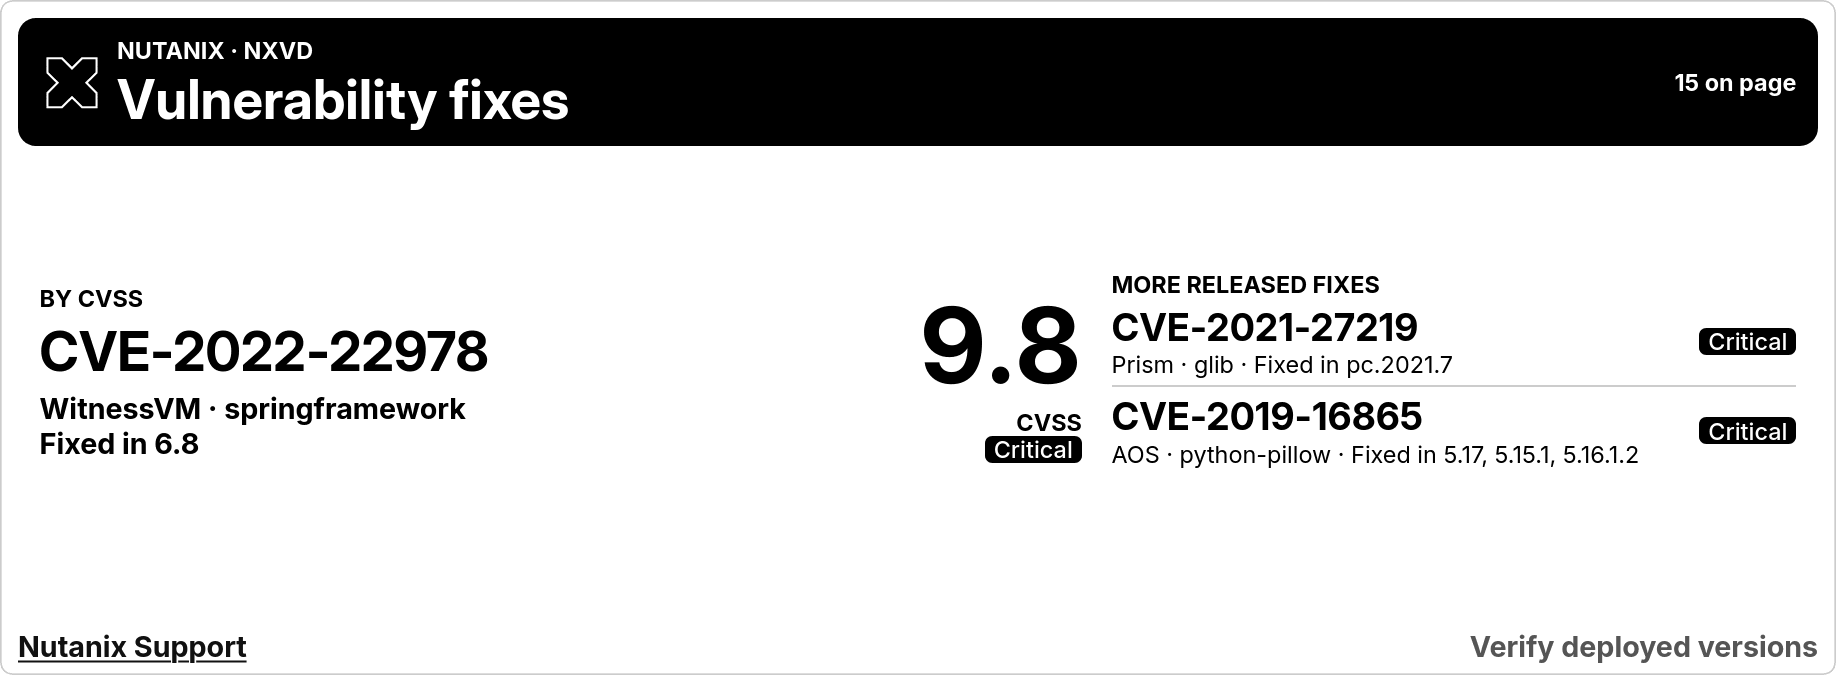
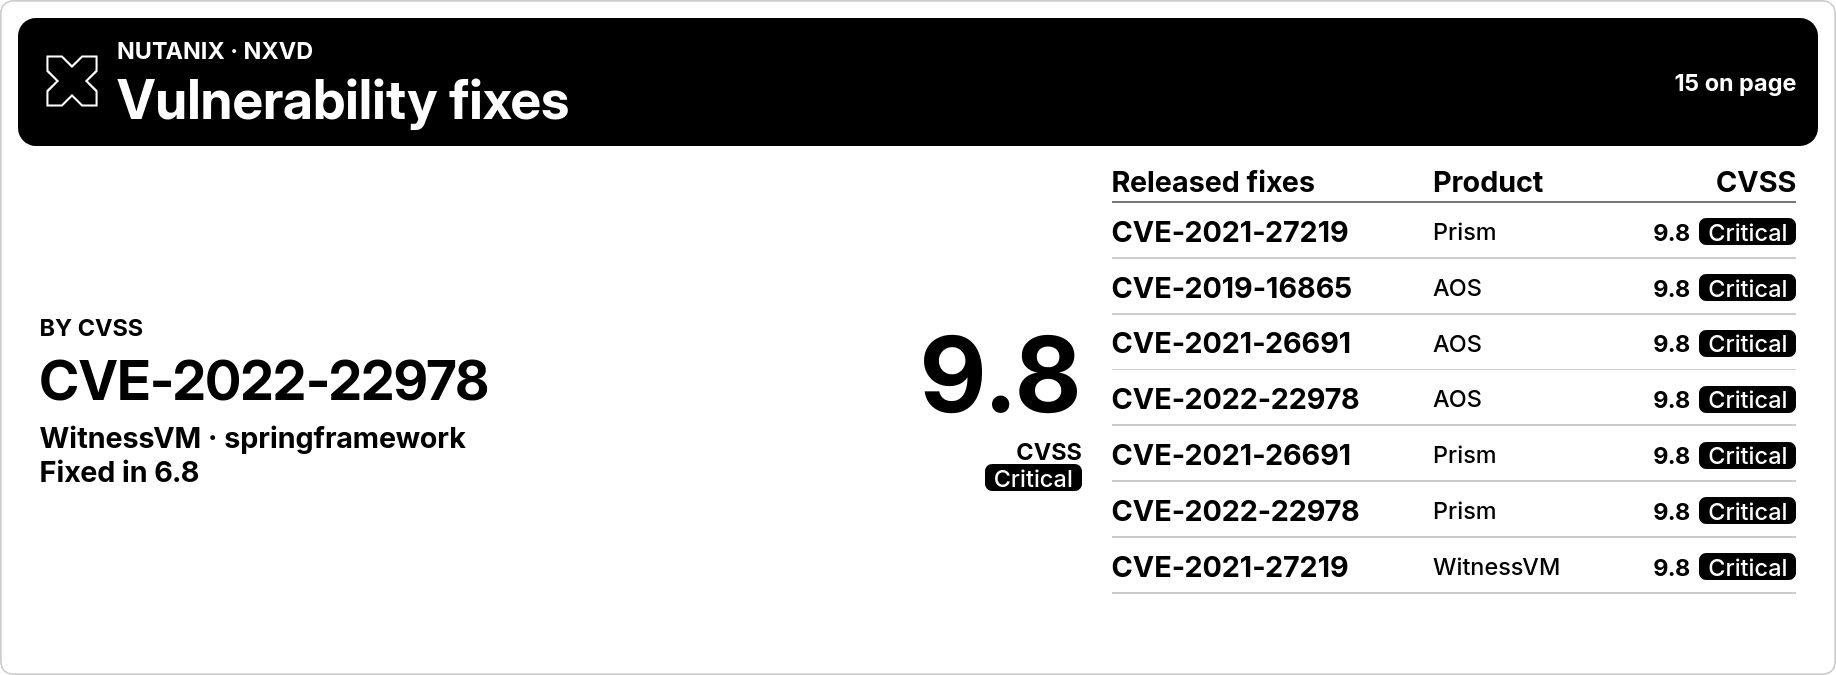
feat: adapt nutanix tables to og and trmnl x

diff --git a/TRMNL/tests/layout_spec.rb b/TRMNL/tests/layout_spec.rb
@@ -5,17 +5,17 @@ RSpec.describe 'Nutanix Security layouts' do
   advisories_url = 'https://portal.nutanix.com/api/v1/pages/securityAdvisories'
   nxvd_url = 'https://portal.nutanix.com/api/v1/vulnerabilities'
 
-  advisories = (1..6).map do |n|
+  advisories = (1..20).map do |n|
     {
       advisoryNumber: format('%04d', n), criticality: n > 3 ? 'Critical' : 'High',
-      date: "Nov #{14 + n}, 2026",
+      date: "Nov #{n}, 2026",
       affectedVersions: 'Nutanix AOS, Prism Central, and AHV on the affected software releases',
-      summary: "Investigation and BreakFix Guidance for CVE-2099-#{1000 + n} in a component with a long name",
+      summary: "Investigation and BreakFix Guidance for CVE-2099-#{1000 + n} in a component with a very long name affecting several product versions",
       href: "https://download.nutanix.com/alerts/Security_Advisory_#{format('%04d', n)}.pdf"
     }
   end
 
-  released = (1..6).map do |n|
+  released = (1..20).map do |n|
     {
       productName: 'AOS', status: 'Released', severity: n < 3 ? 'Critical' : 'High',
       cvss: n < 3 ? 9.8 : 8.8, cveList: ["CVE-2099-#{1000 + n}", "CVE-2099-#{2000 + n}"],
@@ -24,9 +24,9 @@ RSpec.describe 'Nutanix Security layouts' do
   end
 
   cases = {
-    'advisories' => ['advisories', { "GET #{advisories_url}" => { json: { content: { body: advisories.rotate(2) } } } }, 'CVE-2099-1006', 6],
+    'advisories' => ['advisories', { "GET #{advisories_url}" => { json: { content: { body: advisories.rotate(2) } } } }, 'CVE-2099-1020', 20],
     'advisories-empty' => ['advisories', { "GET #{advisories_url}" => { json: { content: { body: [] } } } }, 'No advisories returned', 0],
-    'nxvd' => ['nxvd', { "POST #{nxvd_url}" => { json: { vulnerabilities: released, totalCount: 200 } } }, 'CVE-2099-1001', 6],
+    'nxvd' => ['nxvd', { "POST #{nxvd_url}" => { json: { vulnerabilities: released, totalCount: 200 } } }, 'CVE-2099-1001', 20],
     'nxvd-single' => ['nxvd', { "POST #{nxvd_url}" => { json: { vulnerabilities: released.take(1) } } }, 'CVE-2099-1001', 1],
     'nxvd-empty' => ['nxvd', { "POST #{nxvd_url}" => { json: { vulnerabilities: [] } } }, 'No released fixes on this page', 0],
     'nxvd-error' => ['nxvd', { "POST #{nxvd_url}" => { status: 503 } }, 'HTTP 503', 0]
@@ -37,21 +37,20 @@ RSpec.describe 'Nutanix Security layouts' do
     'og-portrait' => { model: 'og_plus', width: 480, height: 800, bit_depth: 2, screen_classes: 'screen screen--ogv2 screen--md screen--2bit screen--portrait' },
     'x-portrait' => { model: 'v2', width: 1404, height: 1872, bit_depth: 4, screen_classes: 'screen screen--v2 screen--lg screen--4bit screen--portrait' }
   }
-  row_limits = { 'full' => 4, 'half_horizontal' => 2, 'half_vertical' => 4, 'quadrant' => 0 }
+  views = %w[full half_horizontal half_vertical quadrant]
 
   cases.each do |scenario, (mode, mocks, label, count)|
     devices.each do |device_name, device|
-      row_limits.each do |view, limit|
+      views.each do |view|
         it "renders #{scenario} on #{device_name} #{view}" do
           fields = { table_type: mode, nxvd_product: 'aos' }
           screen = trmnl.render(view: view, device: device, custom_fields: fields, mocks: mocks)
-          narrow = %w[half_vertical quadrant].include?(view)
-
           expect(screen).to have_no_transform_error
           expect(screen).to have_text(label)
           expect(screen).to have_no_text('ALL CLEAR')
           expect(screen.all('[data-ns-lead]').size).to eq(count.positive? ? 1 : 0)
-          expect(screen.all('[data-ns-row]').size).to eq([limit, [count - 1, 0].max].min)
+          expect(screen).to have_no_css('.title_bar')
+          expect(screen).to have_no_css('.layout a')
           expect(screen.result.requests.size).to eq(1)
           expect(screen).to have_css('[data-ns-lead] [data-ns-subject]', text: label) if count.positive?
 
@@ -60,10 +59,9 @@ RSpec.describe 'Nutanix Security layouts' do
             expect(screen.find('[data-ns-score]').text).to eq('9.8')
             expect(screen).to have_text('Fixed in')
           elsif count.positive?
-            expect(screen).to have_text("SA #0006")
+            expect(screen).to have_text("SA #0020")
             expect(screen).to have_text('Nov 20, 2026')
             expect(screen).to have_no_text('Investigation and BreakFix Guidance for')
-            expect(screen).to have_text(narrow ? '1 on Nov 20' : '1 published Nov 20')
           end
 
           request = screen.result.requests.first
@@ -74,19 +72,47 @@ RSpec.describe 'Nutanix Security layouts' do
             )
           end
 
-          footer = screen.box('[data-ns-footer]')
           box = screen.box('.view')
-          width_overflow = screen.evaluate(<<~JS)
-            Math.max(...Array.from(document.querySelectorAll('[data-ns-mast], [data-ns-footer] .instance'),
-              element => element.scrollWidth - element.clientWidth))
+          geometry = screen.evaluate(<<~JS)
+            (() => {
+              const frame = document.querySelector('.layout').getBoundingClientRect();
+              const mast = document.querySelector('[data-ns-mast]');
+              const lead = document.querySelector('[data-ns-lead]')?.getBoundingClientRect();
+              const table = document.querySelector('table');
+              const rows = [...document.querySelectorAll('[data-ns-row]')].filter(row => row.getClientRects().length);
+              const boxes = [...rows, ...document.querySelectorAll('thead, [data-ns-lead]')]
+                .filter(element => element.getClientRects().length)
+                .map(element => element.getBoundingClientRect());
+              const cellOverflow = rows.some(row => [...row.querySelectorAll('[data-clamp]')].some(element => {
+                if (!element.getClientRects().length) return false;
+                const text = document.createRange();
+                text.selectNodeContents(element);
+                return text.getBoundingClientRect().right > element.closest('td').getBoundingClientRect().right + 1;
+              }));
+              return {
+                rows: rows.length,
+                cellOverflow,
+                widthOverflow: mast.scrollWidth - mast.clientWidth,
+                clipped: boxes.some(box => box.top < frame.top - 1 || box.bottom > frame.bottom + 1 ||
+                                          box.left < frame.left - 1 || box.right > frame.right + 1),
+                beside: Boolean(table && lead && table.getBoundingClientRect().left >= lead.right - 1),
+                columns: table ? [...table.querySelectorAll('th')].filter(cell => cell.getClientRects().length).length : 0
+              };
+            })()
           JS
-          expect(width_overflow).to be <= 1
-          bottom = footer.top + footer.height
-          expect(bottom).to be <= box.top + box.height + 1
-          if count.positive?
-            last_selector = limit.positive? && count > 1 ? '[data-ns-row]:last-child' : '[data-ns-lead]'
-            last = screen.box(last_selector)
-            expect(last.top + last.height).to be <= footer.top + 1
+          expect(geometry['widthOverflow']).to be <= 1
+          expect(geometry['clipped']).to be(false)
+          expect(geometry['cellOverflow']).to be(false)
+          if count <= 1 || (view == 'quadrant' && device_name.start_with?('og'))
+            expect(geometry['rows']).to eq(0)
+          else
+            expect(geometry['rows']).to be_between(1, count - 1)
+          end
+          if count > 1 && view == 'full' && %w[og x].include?(device_name)
+            expect(geometry['beside']).to eq(device_name == 'x')
+            columns = device_name == 'x' ? (mode == 'nxvd' ? 4 : 3) : 2
+            expect(geometry['columns']).to eq(columns)
+            expect(geometry['rows']).to eq(count - 1) if device_name == 'x' && mode == 'nxvd'
           end
 
           FileUtils.mkdir_p('_build/previews')

diff --git a/TRMNL/README.md b/TRMNL/README.md
@@ -32,7 +32,20 @@ Recorded on November 20, 2026 using public Nutanix data.
 
 ## Templates
 
-[Shared Liquid](src/shared.liquid) renders both briefs. Advisories leads with the latest publication and shows how many advisories share its date. NXVD leads with the first released fix on the CVSS-ranked page and shows its product, package and fixed release when available. The four templates choose how many additional items fit beside or below the lead.
+[Shared Liquid](src/shared.liquid) renders both briefs. Advisories leads with the latest publication. NXVD leads with the first released fix on the CVSS-ranked page and shows its product, package and fixed release when available.
+
+The full OG view stacks the lead and table. The full landscape X view uses a separate lead panel beside a wider table with dedicated publication dates or product and fixed-release columns. Portrait views stack the content. The OG quadrant shows one featured item, and the X quadrant also fits a short table. [TRMNL X layout guide](https://trmnl.com/framework/docs/3.4/trmnl_x_guide)
+
+The native table fits rows to the space available. These landscape previews use the same public data for both devices. Counts include the featured item and vary with the feed, title lengths, and display scale. [TRMNL table overflow](https://trmnl.com/framework/docs/3.4/table_overflow)
+
+| Layout | OG Advisories | X Advisories | OG NXVD | X NXVD |
+| --- | ---: | ---: | ---: | ---: |
+| Full | 9 | 22 | 8 | 15 |
+| Half horizontal | 6 | 9 | 6 | 8 |
+| Half vertical | 9 | 16 | 8 | 15 |
+| Quadrant | 1 | 6 | 1 | 5 |
+
+The sample NXVD page supplied 15 fixes. The full landscape X regression shows all 20 fixes on a filled page.
 
 ## Data behavior
 
